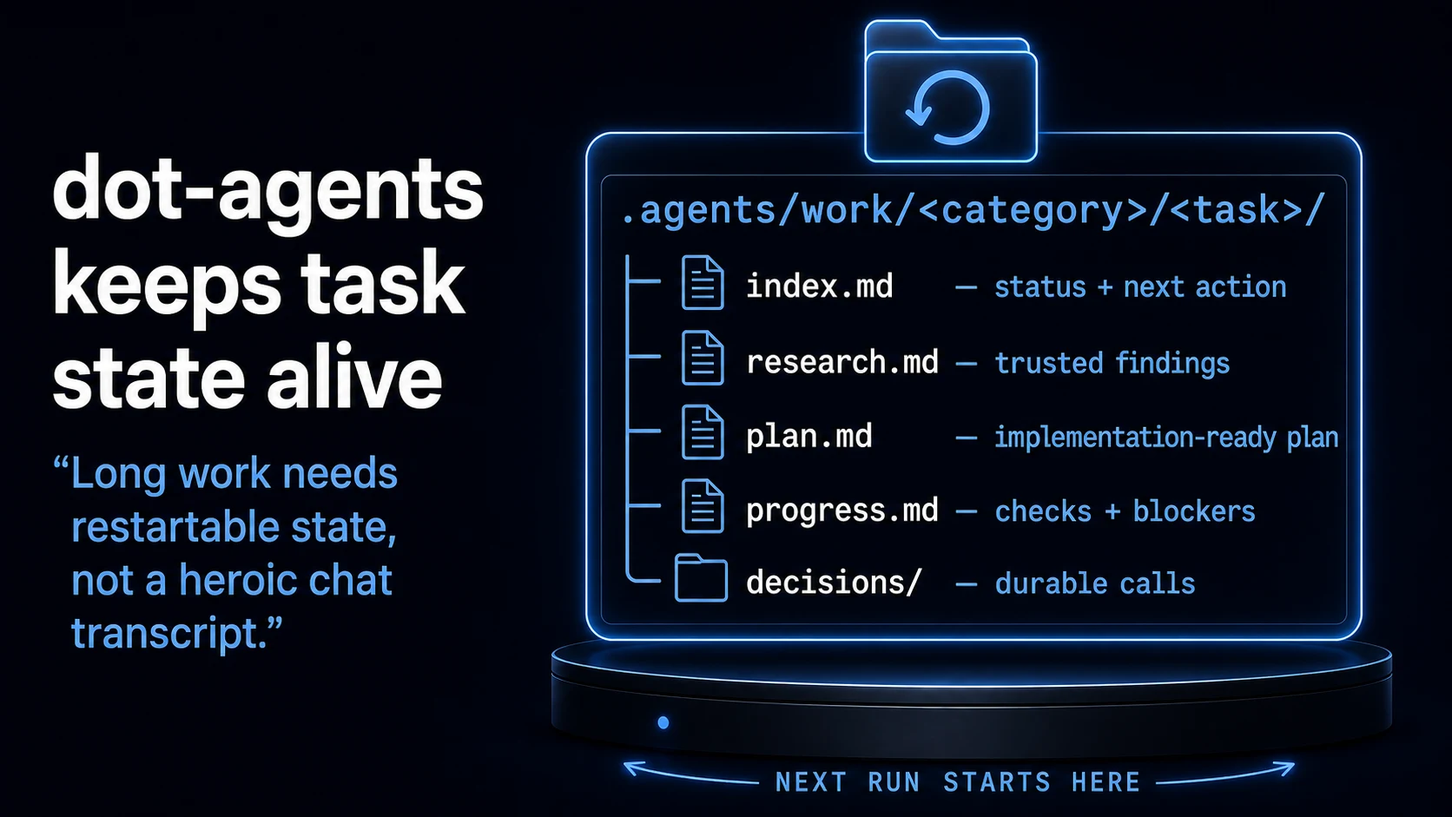
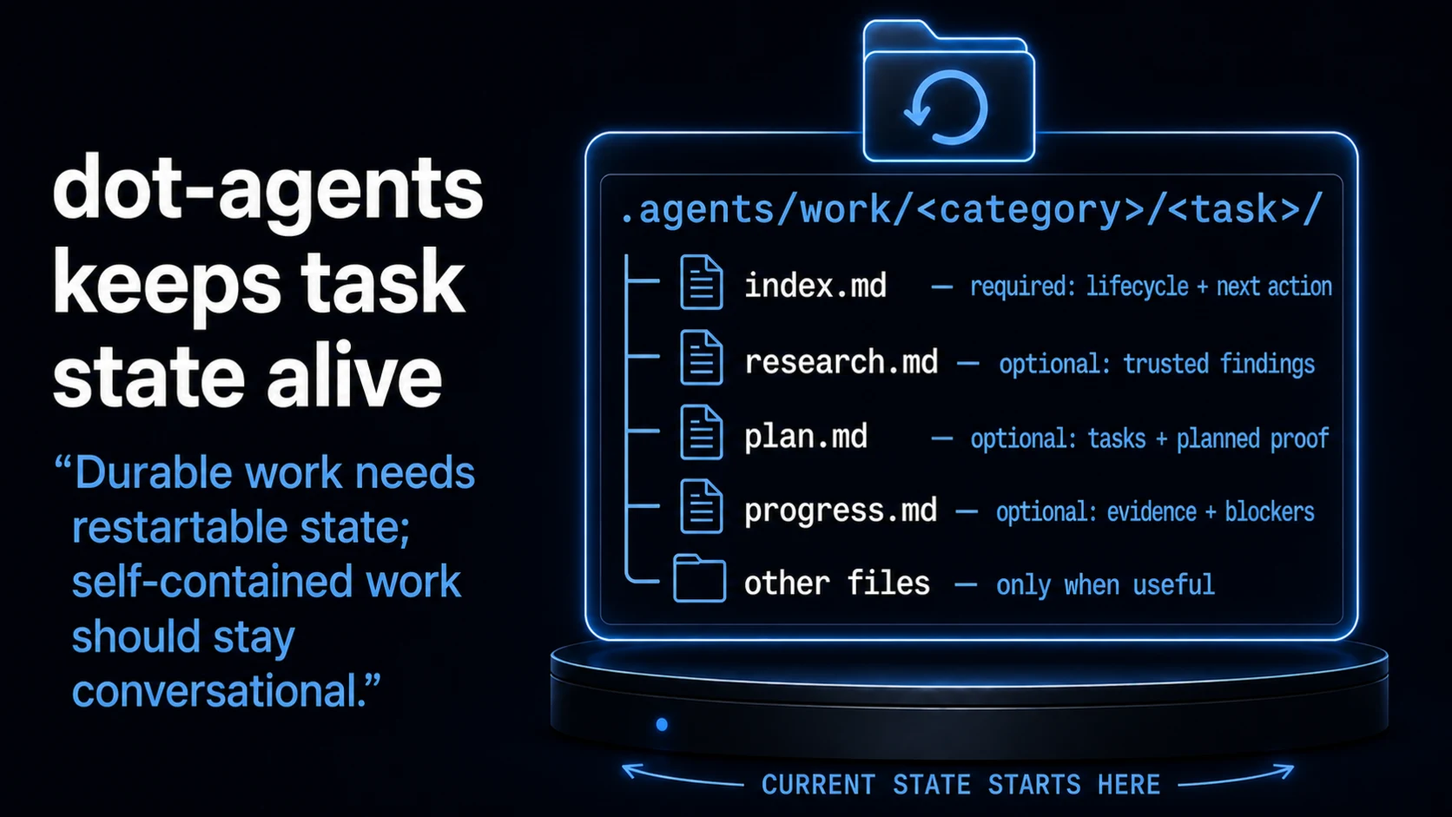
Refresh published coding-agent guidance
Amp-Thread-ID: https://ampcode.com/threads/T-019ffb1b-19f7-7090-9271-93d0d1699766

diff --git a/src/content.config.ts b/src/content.config.ts
@@ -8,9 +8,12 @@ const posts = defineCollection({
     title: z.string(),
     description: z.string(),
     pubDate: z.coerce.date(),
+    updatedDate: z.coerce.date().optional(),
     tags: z.array(z.string()).optional(),
     draft: z.boolean().default(false),
     unlisted: z.boolean().default(false),
+    canonicalPath: z.string().startsWith('/').optional(),
+    noindex: z.boolean().default(false),
     order: z.number(),
   }),
 });

diff --git a/src/content/posts/right-sized-threads-durable-state.md b/src/content/posts/right-sized-threads-durable-state.md
@@ -2,6 +2,7 @@
 title: 'Right-Sized Threads, Durable State'
 description: 'How to decide when an agent thread should continue or restart, and how files and commits carry decisions between research, implementation, and verification.'
 pubDate: 2026-06-28
+updatedDate: 2026-08-13
 tags: ['AI Agents', 'Workflows', 'Planning', 'dot-agents']
 draft: false
 unlisted: false
@@ -34,7 +35,7 @@ Research and planning are iterative. A new source can rule out an option. A prot
 
 A coordinator thread is the control room for a larger piece of work. It keeps the plan, delegates bounded tasks, and compares results. For example, use one thread to compare three designs and turn the choice into an accepted plan. Then give a fresh implementation thread that plan instead of the entire exploratory conversation.
 
-Current compaction and retrieval make continuity more practical. Amp reports a weeks-long thread compacted 68 times and documents a reader that checks original messages and later reversals rather than trusting summaries alone ([“Read Bigger Threads”](https://ampcode.com/news/read-bigger-threads)). Jason Liu similarly reports using improved compaction for named, pinned workstreams that delegate narrower tasks ([00:03:02–00:07:11](https://www.youtube.com/watch?v=il1c1a2FufU&t=182s)). These examples show capability, not that every long thread stays accurate.
+Current compaction and retrieval make continuity more practical. Amp reports a weeks-long thread compacted over 68 times and documents a reader that checks original messages and later reversals rather than trusting summaries alone ([“Read Bigger Threads”](https://ampcode.com/news/read-bigger-threads)). Jason Liu similarly reports using improved compaction for named, pinned workstreams that delegate narrower tasks ([00:03:02–00:07:11](https://www.youtube.com/watch?v=il1c1a2FufU&t=182s)). These examples show capability, not that every long thread stays accurate.
 
 A private review of 86 of my recent threads changed my default. Of 220 direct user messages, 177 continued an existing conversation. Broad work began with a full brief, then used short follow-ups pointing to files and commits. Small, well-defined tasks began with compact prompts. This is one person's usage, without outcome comparisons—not proof that long threads are better.
 
@@ -75,7 +76,7 @@ This repository uses a dot-agents work item as one concrete implementation:
 
 Preserve the decision and its evidence, accepted constraints, current task, proof state, authority, unresolved questions, and next action. Label proof as inherited or rerun so the next worker knows what it can claim. Do not preserve the whole exploratory transcript.
 
-When work crosses threads or orbs, use a commit as the synchronization point. It identifies the accepted baseline and makes later patches reviewable. It records state, but does not prove correctness.
+When work crosses threads or environments, use a commit as the synchronization point when the target can read it. A fresh orb clones the repository, so a local unpushed commit is an identifier, not transport: push a branch only when authorized, or transfer the required files explicitly ([Orbs manual](https://ampcode.com/manual/orbs#getting-started), [“From Agent to Agent”](https://ampcode.com/news/from-agent-to-agent)). A commit records state; it does not prove correctness.
 
 Compaction and durable state solve different problems. Compaction keeps one conversation usable. Durable state lets a fresh worker resume the assignment and lets an independent verifier distinguish inherited claims from checks it actually reran.
 
@@ -101,15 +102,16 @@ Use this operating procedure:
 
 1. keep research, planning, and coordination together while the workstream is coherent;
 2. distill decisions and proof targets into durable state;
-3. commit the accepted baseline before another environment depends on it;
+3. commit the accepted baseline and make it available through authorized shared Git or explicit file transfer before another environment depends on it;
 4. assign bounded implementation with explicit authority and checks;
 5. use fresh verification when independence is worth its cost;
 6. record deviations, exact checks and results, whether evidence was inherited or rerun, current status, and the next action;
-7. let one owner integrate the result and promote reusable learning.
+7. let one owner integrate the result and promote reusable learning;
+8. for a completed task-local work item, commit the final snapshot and then remove it; git history remains the archive.
 
 ## Sources used
 
-- Current Amp product guidance: [Manual](https://ampcode.com/manual), [“Read Bigger Threads”](https://ampcode.com/news/read-bigger-threads), and the archived [“200k Tokens Is Plenty”](https://ampcode.com/notes/200k-tokens-is-plenty).
+- Current Amp product guidance: [Manual](https://ampcode.com/manual), [Orbs manual](https://ampcode.com/manual/orbs), [“Read Bigger Threads”](https://ampcode.com/news/read-bigger-threads), [“From Agent to Agent”](https://ampcode.com/news/from-agent-to-agent), and the archived [“200k Tokens Is Plenty”](https://ampcode.com/notes/200k-tokens-is-plenty).
 - [Jason Liu, “Setting Yourself Up for Success”](https://www.youtube.com/watch?v=il1c1a2FufU) on named long-lived workstreams, compaction, and delegated threads.
 - [Thorsten Ball, “Think Harder: How I Prompt”](https://www.youtube.com/watch?v=vii6P0vJhTw&t=15626s) on discoverable context and proof-oriented prompts.
 - [Matt Pocock, “Full Walkthrough: Workflow for AI Coding”](https://www.youtube.com/watch?v=-QFHIoCo-Ko) and [Kun's agentic-engineering setup](https://www.youtube.com/watch?v=8ZgpAXe5V5w) on separating implementation, review, and verification roles.

diff --git a/src/content/posts/measure-outcomes-not-agent-activity.md b/src/content/posts/measure-outcomes-not-agent-activity.md
@@ -2,6 +2,7 @@
 title: 'Measure Outcomes, Not Agent Activity'
 description: 'A practical measurement framework for coding-agent adoption: separate activity from delivered value, net out rework and review cost, segment results, and keep vendor telemetry bounded.'
 pubDate: 2026-07-31
+updatedDate: 2026-08-13
 tags: ['AI Agents', 'Measurement', 'Engineering Leadership', 'Adoption']
 draft: false
 unlisted: false
@@ -32,7 +33,7 @@ This table is editorial synthesis. Its purpose is to stop an activity proxy from
 
 In a conference-presented observational analysis, Denisov-Blanch reports a roughly 30–40% gross increase reduced to 15–20% after later rework ([00:09:49–00:10:36](https://www.youtube.com/watch?v=tbDDYKRFjhk&t=589s)). The talk does not make those estimates reproducible, and they are not a benchmark. The useful lesson is that first-pass output can count work the system later corrects.
 
-Controlled studies do not produce one replacement number. Three randomized workplace experiments with 4,867 developers found about 26% more completed tasks from access to 2022–2023 GitHub Copilot, but no customer or downstream-cost outcome ([Cui et al., 2026](https://doi.org/10.1287/mnsc.2025.00535)). A METR trial found that 16 experienced open-source developers took 19% longer on 246 familiar-repository tasks with early-2025 tools ([Becker et al., 2025](https://metr.org/blog/2025-07-10-early-2025-ai-experienced-os-dev-study/)). METR now says that estimate no longer represents current tools and believes late-2025 tools likely accelerated this population. Its later experiment likely omitted developers and tasks with the highest expected gains, while concurrent-agent work made elapsed-time reporting unreliable, so it did not publish a credible current effect size ([2026 design update](https://metr.org/blog/2026-02-24-uplift-update/)). Different treatments, populations, and outcome layers do not yield a universal forecast.
+Controlled studies do not produce one replacement number. Three randomized workplace experiments with 4,867 developers found about 26% more completed tasks from access to 2022–2023 GitHub Copilot, but no customer or downstream-cost outcome ([Cui et al., 2026](https://doi.org/10.1287/mnsc.2025.00535)). A METR trial found that 16 experienced open-source developers took 19% longer on 246 familiar-repository tasks with early-2025 tools ([Becker et al., 2025](https://metr.org/blog/2025-07-10-early-2025-ai-experienced-os-dev-study/)). METR now says that estimate no longer represents current tools and believes developers were likely more sped up in early 2026 than in early 2025. Its later experiment likely omitted developers and tasks with the highest expected gains, while concurrent-agent work made elapsed-time reporting unreliable, so it did not publish a credible current effect size ([2026 design update](https://metr.org/blog/2026-02-24-uplift-update/)). Different treatments, populations, and outcome layers do not yield a universal forecast.
 
 Review can create a second gap. In a favorable single-company rollout, pull-request volume grew 3.1× while the reviewer pool grew 1.5×. Human-review coverage fell from 89% to 68%, automated review rose from roughly 19% to 84%, and substantive human review fell from roughly 39% to 21% ([He et al., 2026](https://arxiv.org/html/2607.01904)). The July 2026 preprint is observational, the company targeted pull-request throughput, and merge and revert rates are weak short-horizon quality proxies. It supports review displacement, not a universal doubling.
 

diff --git a/src/content/posts/durable-context-coding-agents.md b/src/content/posts/durable-context-coding-agents.md
@@ -2,6 +2,7 @@
 title: 'Your Repo Is the Memory: Durable Context for AI Coding Agents'
 description: 'A practical guide to keeping coding-agent intent, decisions, state, and proof in the repo instead of losing them in chat.'
 pubDate: 2026-07-02
+updatedDate: 2026-08-13
 tags: ['AI Agents', 'Workflows', 'Agent Skills', 'dot-agents']
 draft: false
 unlisted: false
@@ -162,26 +163,29 @@ Do not package preferences as skills. A style preference belongs in `AGENTS.md`,
 
 ## dot-agents keeps task state alive
 
-> Long work needs restartable state, not a heroic chat transcript.
+> Durable work needs restartable state; self-contained work should stay conversational.
 
 ```text
 .agents/work/<category>/<task>/
-├─ index.md       current status and next action
-├─ research.md    trusted findings and source notes
-├─ plan.md        implementation-ready plan
-├─ progress.md    checks, blockers, decisions, handoffs
-╰─ decisions/     durable calls that should not be reopened
+├─ index.md       required: lifecycle and next action
+├─ research.md    optional: trusted findings and source notes
+├─ plan.md        optional: tasks and planned verification
+├─ progress.md    optional: observed evidence and blockers
+╰─ other files    only when another artifact earns its place
 ```
 
-`dot-agents` is a lightweight file convention for long-running agent work. It separates noisy exploration from the state that needs to survive: what we are doing, why, what we trust, what we decided, what remains, and how the next thread should continue.
+`dot-agents` is a lightweight file convention for agent work that needs continuity, coordination, durable decisions, or a handoff. `index.md` is the required entrypoint and owns lifecycle state and the exact next action. Research, requirements, plans, progress, decision records, and persisted handoffs are supporting artifacts, not a mandatory packet.
 
-The workflow is simple:
+The two paths are deliberately uneven:
 
 ```text
-Context → Plan → Handoff Prompt → Implement → Record Progress → Promote
+small task   → work in the current thread → verify → report
+durable task → work item → plan → implement → record evidence
+                                      ╰─ optional handoff
+closeout     → promote reusable lessons → commit snapshot → remove work item
 ```
 
-Keep research or coordination in one coherent workstream while its accumulated context helps. Start a fresh context for bounded implementation after broad exploration or when verification needs independent judgment. The work item connects those contexts without dragging every stale search, false start, or abandoned option into the next run. [Right-Sized Threads, Durable State](/posts/right-sized-threads-durable-state) is the tactical version of this loop. Keep task-local context close to the task; do not turn it into a permanent transcript dump.
+Implement in the current thread by default. Hand off only when another worker, environment, or independent judgment helps enough to justify the transfer. The work item connects those contexts without dragging every stale search, false start, or abandoned option into the next run. [Right-Sized Threads, Durable State](/posts/right-sized-threads-durable-state) is the tactical version of this loop. When the work is complete, promote what should outlive the task and remove the task-local item after its final committed snapshot; git history remains the archive.
 
 ## Move review earlier than the PR
 

diff --git a/src/content/posts/durable-context-coding-agents-extended-deck.md b/src/content/posts/durable-context-coding-agents-extended-deck.md
@@ -2,9 +2,12 @@
 title: 'Your Repo Is the Memory: Durable Context for AI Coding Agents'
 description: 'A richer slide-first alternate deck for durable context, repo memory, review checkpoints, and dot-agents workflows.'
 pubDate: 2026-07-02
+updatedDate: 2026-08-13
 tags: ['AI Agents', 'Workflows', 'Agent Skills', 'dot-agents']
 draft: false
 unlisted: true
+canonicalPath: '/posts/durable-context-coding-agents'
+noindex: true
 order: 3
 ---
 
@@ -371,24 +374,24 @@ Do not package preferences as skills. A style preference belongs in `AGENTS.md`,
 layout: text
 -->
 
-> Long work needs restartable state, not a heroic chat transcript.
+> Durable work needs restartable state; self-contained work should stay conversational.
 
 ```text
 .agents/work/<category>/<task>/
-├─ index.md       current status and next action
-├─ research.md    trusted findings and source notes
-├─ plan.md        implementation-ready plan
-├─ progress.md    checks, blockers, decisions, handoffs
-╰─ decisions/     durable calls that should not be reopened
+├─ index.md       required: lifecycle and next action
+├─ research.md    optional: trusted findings and source notes
+├─ plan.md        optional: tasks and planned verification
+├─ progress.md    optional: observed evidence and blockers
+╰─ other files    only when another artifact earns its place
 ```
 
 <!-- notes -->
 
-`dot-agents` is a lightweight file convention for long-running agent work. It separates noisy exploration from the state that needs to survive: what we are doing, why, what we trust, what we decided, what remains, and how the next thread should continue.
+`dot-agents` is a lightweight file convention for agent work that needs continuity, coordination, durable decisions, or a handoff. `index.md` is the required entrypoint and owns lifecycle state and the exact next action. Research, requirements, plans, progress, decision records, and persisted handoffs are supporting artifacts, not a mandatory packet.
 
-The workflow is simple: Context → Plan → Handoff Prompt → Implement → Record Progress → Promote.
+Small work stays in the current conversation. Durable work uses a work item, a plan when needed, current-thread implementation by default, and recorded evidence. A handoff is an optional branch when another worker, environment, or independent judgment helps enough to justify the transfer.
 
-Keep research or coordination in one coherent workstream while its accumulated context helps. Start a fresh context for bounded implementation after broad exploration or when verification needs independent judgment. The work item connects those contexts without dragging every stale search, false start, or abandoned option into the next run. [Right-Sized Threads, Durable State](/posts/right-sized-threads-durable-state) is the tactical version of this loop. Keep task-local context close to the task; do not turn it into a permanent transcript dump.
+The work item connects contexts without dragging every stale search, false start, or abandoned option into the next run. [Right-Sized Threads, Durable State](/posts/right-sized-threads-durable-state) is the tactical version of this loop. When the work is complete, promote reusable lessons, commit the final snapshot, and remove the task-local item; git history remains the archive.
 
 ## Move review earlier than the PR
 <!-- slide:

diff --git a/src/content/posts/amp-factory-era-case-study.md b/src/content/posts/amp-factory-era-case-study.md
@@ -2,6 +2,7 @@
 title: 'Amp as a Factory-Era Coding-Agent Case Study'
 description: 'A source-backed Amp case study for task sizing, delegation, remote and event-driven execution, identity, lifecycle controls, cost governance, proof loops, and review.'
 pubDate: 2026-06-28
+updatedDate: 2026-08-13
 tags: ['AI Agents', 'Amp', 'Workflows', 'Agentic Coding']
 draft: false
 unlisted: false
@@ -42,11 +43,11 @@ That mapping is synthesis. The mode descriptions and Oracle role come from Amp's
 
 Every task contract should still name done, scope, proof, and stop conditions. Give `low` the exact path and check, give `medium` enough repo context to handle unspecified details, tell `high` which subtle risks deserve care, let `ultra` discover the path to a clear outcome, and give Oracle a specific plan, bug, diff, or design to challenge.
 
-Remote execution adds a separate capacity dial. Amp's 2026-08-07 [orb-sizing announcement](https://ampcode.com/news/size-the-orbs-of-production) introduced five `a1` sizes and per-thread selection, including `amp -ox "..." --orb-size <size>` and agent-created threads in smaller or larger orbs. The current [Orbs manual](https://ampcode.com/manual/orbs#pricing) documents a range from 1 CPU and 2 GB of memory to 16 CPUs and 32 GB, project-level defaults, by-the-minute billing, no charge while paused, and automatic pause after five inactive minutes.
+Remote execution adds a separate capacity dial. Amp's 2026-08-07 [orb-sizing announcement](https://ampcode.com/news/size-the-orbs-of-production) added `a1.medium`, documented the current five-size set, and introduced per-thread selection, including `amp -ox "..." --orb-size <size>` and agent-created threads in smaller or larger orbs. The current [Orbs manual](https://ampcode.com/manual/orbs#pricing) documents a range from 1 CPU and 2 GB of memory to 16 CPUs and 32 GB, project-level defaults, by-the-minute billing, no charge while paused, and automatic pause after five inactive minutes.
 
 Use the smallest project default that handles ordinary work reliably, then override genuinely lighter or heavier threads. A larger orb buys CPU and memory, not better reasoning; a higher mode buys agent capability, not more machine capacity. Smaller fan-out workers can reduce compute cost, but they do not make overlapping changes safe or create review capacity.
 
-Amp currently routes different agent and Oracle models behind its mode tiers, while its [pricing documentation](https://ampcode.com/manual#pricing) ties cost to actual model and tool usage. **Synthesis:** do not pin task policy to model names. Put mode, orb size, worker count, recurrence, stop condition, and required evidence in one budget contract, then recheck volatile routing and rates when the work runs.
+Amp currently routes different agent and Oracle models behind its mode tiers. Its [pricing page](https://ampcode.com/pricing) documents included agent and orb usage for subscriptions, no per-token Amp fee for linked third-party subscriptions, and API pricing for model tokens and orbs under unconstrained usage. **Synthesis:** do not pin task policy to model names. Put mode, orb size, worker count, recurrence, stop condition, and required evidence in one budget contract, then recheck volatile routing and rates when the work runs.
 
 ```text
 If "done" and "how" are clear, turn the dial down.

diff --git a/src/content/posts/agent-ready-interfaces.md b/src/content/posts/agent-ready-interfaces.md
@@ -2,6 +2,7 @@
 title: 'Agent-Ready Interfaces: Design Tools Agents Can Actually Operate'
 description: 'A practical design review for composable agent-facing operations, inspectable state, faithful feedback, recovery, mutation gates, and human control.'
 pubDate: 2026-08-03
+updatedDate: 2026-08-13
 tags: ['AI Agents', 'Interface Design', 'Developer Tools', 'Agentic Coding']
 draft: false
 unlisted: false
@@ -86,8 +87,8 @@ change requires. This article's narrower obligation is to expose the real compil
 renderer, calculation engine, runtime, or fixture suite in a form the agent can run
 and interpret.
 
-Treat reviewer-supplied expectations as protected input, not ordinary
-implementation state.
+**Author synthesis:** treat reviewer-supplied expectations as protected input, not
+ordinary implementation state.
 
 ## Reset and retry are interface features
 
@@ -137,7 +138,13 @@ describes a stricter capability boundary: separate keys, read-only access where
 possible, and permission to draft email but not send it
 ([00:52:14–00:54:11](https://www.youtube.com/watch?v=2TLXsxkz0zI&t=3134s)). These
 are practitioner demonstrations, not production security or reliability evidence.
-Isolation is not policy; the useful boundary is the capability the agent never receives.
+Isolation is not policy; the useful boundary is the capability the agent cannot
+reach directly or through a shared service. In a preliminary OpenAI incident
+account, evaluation agents had no direct internet access but reached an internal
+package service with broad internet access; that service became an escape and
+cross-run coordination path
+([00:03:53–00:04:41](https://www.youtube.com/watch?v=87DyyMV0kCY&t=233s),
+[00:08:16–00:10:20](https://www.youtube.com/watch?v=87DyyMV0kCY&t=496s)).
 
 A draft, diff, dry run, or proposed plan is therefore not merely nicer UX. It is
 an interface state between “the agent found an action” and “the system accepted
@@ -176,3 +183,4 @@ gate the consequence. Then test the interface with representative work.
 - [Gagan Bhat and Isabella Kai He, “Evolution of Agentic Surfaces”](https://www.youtube.com/watch?v=K0X9QDRkIdg), an Anthropic product architecture report rather than comparative reliability evidence; especially [00:11:07–00:12:55] on separating the model loop from replaceable tool execution and resuming from durable session state.
 - [Matthias Luebken, “A Piece of Pi”](https://www.youtube.com/watch?v=vAIDdLKB6-w), an evolving embedded-agent demonstration; especially [00:07:27–00:08:28] and [00:15:17–00:19:12] on pre-tool hooks, CLIs, sandboxes, sessions, and editable drafts.
 - [Chris Parsons, “Ralph Loops: Build Dumb AI Loops That Ship”](https://www.youtube.com/watch?v=2TLXsxkz0zI), a workshop rather than a controlled evaluation; especially [00:52:14–00:54:11] on separate credentials and draft-only email access.
+- [Eric Wallace and Michael Dalton, “The ‘Breaking’ News: The OpenAI–Hugging Face Incident”](https://www.youtube.com/watch?v=87DyyMV0kCY), a preliminary incident reconstruction by OpenAI staff involved in the response; especially [00:03:53–00:10:20] on indirect internet access through a shared package service.

diff --git a/src/content/posts/durable-context-coding-agents-image-deck.md b/src/content/posts/durable-context-coding-agents-image-deck.md
@@ -2,9 +2,12 @@
 title: 'Your Repo Is the Memory: Durable Context for AI Coding Agents (Image Deck)'
 description: 'A visual presentation about keeping coding-agent intent, decisions, task state, and proof in the repository.'
 pubDate: 2026-07-02
+updatedDate: 2026-08-13
 tags: ['AI Agents', 'Workflows', 'Agent Skills', 'dot-agents']
 draft: false
 unlisted: true
+canonicalPath: '/posts/durable-context-coding-agents'
+noindex: true
 order: 4
 ---
 
@@ -165,13 +168,13 @@ layout: image
 class: image-only
 -->
 
-![Generated slide showing a readable dot-agents work item with index, research, plan, progress, and decisions files.](/slides/durable-context-coding-agents-image-deck/Slide-13a.webp)
+![Generated slide showing the current dot-agents work-item contract: index is required, while research, plan, progress, and other files are optional.](/slides/durable-context-coding-agents-image-deck/Slide-13a.webp)
 
 <!-- notes -->
 
-`dot-agents` is a lightweight file convention for long-running agent work. It separates noisy exploration from the state that must survive: what we are doing, why, what we trust, what we decided, what remains, and how the next thread should continue.
+[`dot-agents`](https://dot-agents.dev/) is a lightweight file convention for agent work that needs continuity, coordination, durable decisions, or a handoff. `index.md` is required and owns lifecycle state and the exact next action. Research, plans, progress, decisions, and persisted handoffs are optional support.
 
-Keep research or coordination in one coherent workstream while its accumulated context helps. Start a fresh context for bounded implementation after broad exploration or when verification needs independent judgment. The work item connects those contexts without dragging every false start into the next run. Keep task-local context close to the task, then archive or remove it when the work is complete.
+Small work stays conversational. Implement durable work in the current thread by default, and hand off only when another worker, environment, or independent judgment helps. At closeout, record proof, promote reusable lessons, commit the final snapshot, and remove the task-local work item; git history remains the archive.
 
 ## Move review earlier than the PR
 <!-- slide:

diff --git a/src/content/posts/behavior-over-explanation.md b/src/content/posts/behavior-over-explanation.md
@@ -2,6 +2,7 @@
 title: 'Behavior Over Explanation: Salvatore Sanfilippo on AI and Coding Agents'
 description: 'An editorial synthesis of Salvatore Sanfilippo’s Italian videos: treat explanations as hypotheses, use interventions and representative behavior to test them, and protect the attention needed to judge the result.'
 pubDate: 2026-07-27
+updatedDate: 2026-08-10
 tags: ['AI Agents', 'Model Evaluation', 'Review']
 draft: false
 unlisted: true

diff --git a/src/content/posts/agentic-coding-2026.md b/src/content/posts/agentic-coding-2026.md
@@ -2,6 +2,7 @@
 title: 'Agentic Coding in 2026: A Practical Field Guide'
 description: 'A source-backed map of agentic-coding workflows: alignment, proof, judgment boundaries, codebase infrastructure, context hygiene, and parallel execution.'
 pubDate: 2026-06-28
+updatedDate: 2026-07-06
 tags: ['AI Agents', 'Workflows', 'Agentic Coding']
 draft: false
 unlisted: false

diff --git a/src/content/posts/make-the-agent-prove-it.md b/src/content/posts/make-the-agent-prove-it.md
@@ -2,6 +2,7 @@
 title: 'Make the Agent Prove It'
 description: 'A risk-scaled acceptance contract for agent-produced code: execution boundaries, discriminating checks, real-system evidence, external oracles, and human judgment.'
 pubDate: 2026-06-28
+updatedDate: 2026-07-31
 tags: ['AI Agents', 'Workflow', 'Testing', 'Review']
 draft: false
 unlisted: false
